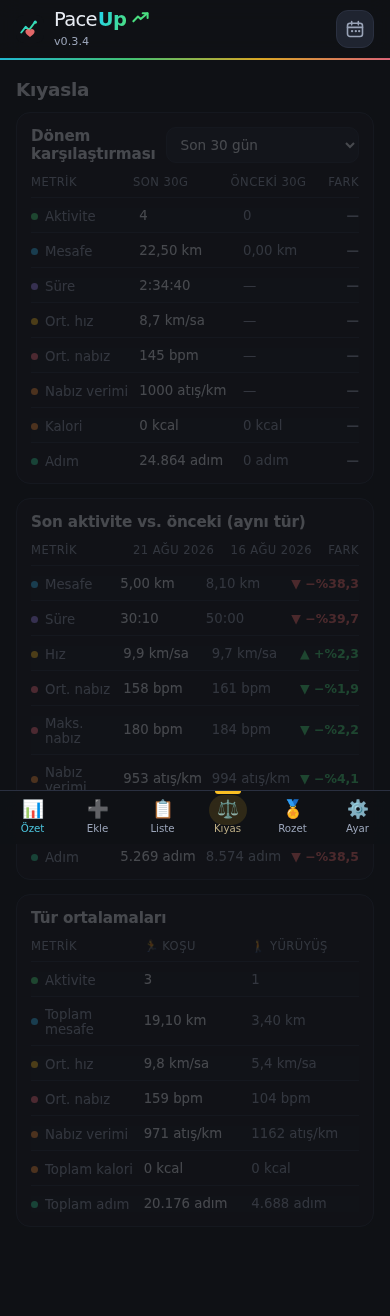
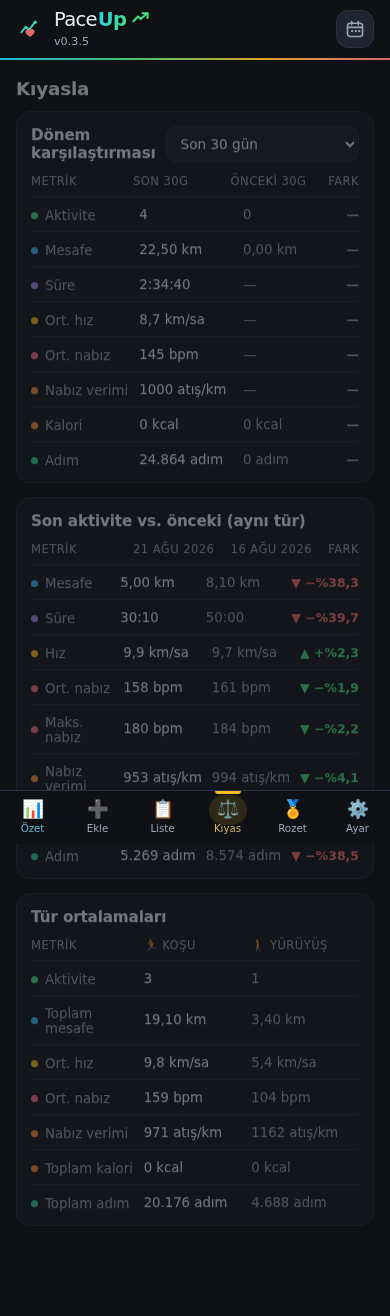
v0.3.5: rozet merdiveni ikiye bolundu
- 10 km'ye kadar (1, 3, 5, 10 km): tek antrenmanda kazanilir, kosular
  birbirine eklenmez
- 10 km ustu (15, 21,1, 30, 42,2, 50, 100, 250, 500, 1000 km): biriken
  toplam kosu mesafesiyle sirayla acilir; hedefi asan kosunun tarihi
  gosterilir. Yalnizca kosu kayitlari sayilir
- Sureklilik grubu aynen kaldi (haftalik antrenman sayisi, ust uste gun)
- Kartlarda olcut etiketi: "Tek antrenmanda" / "Biriken toplam"; kilitli
  rozetlerde kalan da olcute gore ("Tek kosuda 1,00 km daha" /
  "Toplamda 6,00 km daha")
- Birikimli rozetlerin notlari birikime gore yeniden yazildi

Dogrulama: 6 x 4 km kosu tek antrenman 5 km rozetini acmiyor, ama toplam
24 km 15 km ve 21,1 km rozetlerini aciyor; 20 km yuruyus toplama girmiyor.

Claude-Session: https://claude.ai/code/session_01DCsTEoeQYYAT5YEcPqUbg1

diff --git a/js/badges.js b/js/badges.js
@@ -1,7 +1,9 @@
-// Rozetler iki grupta toplanır:
-//   single  — TEK BİR ANTRENMANDA koşulan mesafe (1 km'den 100 km'ye).
+// Rozetler üç grupta toplanır:
+//   single  — TEK BİR ANTRENMANDA koşulan mesafe, 10 km'ye kadar.
 //             Mesafeler birikmez: 5 x 3 km koşmak 5 km rozetini açmaz;
 //             rozeti açan şey tek çıkışta o mesafeyi tamamlamaktır.
+//   total   — 10 km üstü: biriken toplam koşu mesafesi. Her koşu eklenir,
+//             hedefler sırayla açılır.
 //   streak  — süreklilik (haftalık antrenman sayısı, üst üste aktif gün)
 //
 // Rozet verisi saklanmaz; her zaman kayıtlardan hesaplanır. Bir kaydı silersen
@@ -10,8 +12,13 @@
 export const GROUPS = [
   {
     id: 'single',
-    name: 'Mesafe',
-    desc: 'Tek bir antrenmanda koştuğun mesafe — koşular birbirine eklenmez',
+    name: 'Tek antrenman',
+    desc: 'Bir çıkışta koştuğun mesafe — koşular birbirine eklenmez',
+  },
+  {
+    id: 'total',
+    name: 'Toplam koşu',
+    desc: 'Biriken toplam koşu mesafesi — her koşun eklenir, hedefler sırayla açılır',
   },
   { id: 'streak', name: 'Süreklilik', desc: 'Antrenmanı alışkanlığa çevirmek' },
 ];
@@ -41,35 +48,51 @@ export const BADGES = [
     name: '10 km', title: 'Onluk', level: 'Amatör', color: '#a3e635',
     note: 'Pistteki 10.000 metrenin yol karşılığı; olimpik mesafe.',
   },
+  // --- 10 km üstü: biriken toplam koşu mesafesi ---
   {
-    id: 'run-15k', group: 'single', target: 15, unit: 'km',
-    name: '15 km', title: 'Uzun mesafe', level: 'Deneyimli', color: '#fbbf24',
-    note: 'Yarı maratonun dörtte üçü — uzun koşuya geçiş noktası.',
+    id: 'total-15k', group: 'total', target: 15, unit: 'km', kind: 'total',
+    name: '15 km', title: 'Yol başlangıcı', level: 'Deneyimli', color: '#fbbf24',
+    note: 'Toplamda 15 km koşu — yarı maratonun dörtte üçü kadar yol.',
   },
   {
-    id: 'run-half', group: 'single', target: 21.0975, unit: 'km',
-    name: '21,1 km', title: 'Yarı maraton', level: 'Deneyimli', color: '#fb923c',
-    note: 'Maratonun tam yarısı: 21,0975 km. Resmî yarış mesafesi.',
+    id: 'total-half', group: 'total', target: 21.0975, unit: 'km', kind: 'total',
+    name: '21,1 km', title: 'Yarı maraton yolu', level: 'Deneyimli', color: '#fb923c',
+    note: 'Toplamda yarı maraton mesafesi kadar koştun (21,0975 km).',
   },
   {
-    id: 'run-30k', group: 'single', target: 30, unit: 'km',
-    name: '30 km', title: 'Duvar provası', level: 'İleri', color: '#f97316',
-    note: 'Maraton hazırlığının kilit uzun koşusu; "duvar" burada tanınır.',
+    id: 'total-30k', group: 'total', target: 30, unit: 'km', kind: 'total',
+    name: '30 km', title: 'Otuzluk', level: 'İleri', color: '#f97316',
+    note: 'Toplamda 30 km — maraton hazırlığındaki en uzun antrenman kadar yol.',
   },
   {
-    id: 'run-marathon', group: 'single', target: 42.195, unit: 'km',
-    name: '42,2 km', title: 'Maraton', level: 'Yarışçı', color: '#fb7185',
-    note: '1908 Londra Olimpiyatları\'nda koşulan, 1921\'de resmîleşen mesafe.',
+    id: 'total-marathon', group: 'total', target: 42.195, unit: 'km', kind: 'total',
+    name: '42,2 km', title: 'Maraton mesafesi', level: 'Yarışçı', color: '#fb7185',
+    note: 'Toplamda maraton mesafesi kadar koştun: 42,195 km.',
   },
   {
-    id: 'run-50k', group: 'single', target: 50, unit: 'km',
-    name: '50 km', title: 'Ultra', level: 'Yarışçı', color: '#e879f9',
-    note: 'Ultramaratonun giriş kapısı; dünya şampiyonası düzenlenen resmî mesafe.',
+    id: 'total-50k', group: 'total', target: 50, unit: 'km', kind: 'total',
+    name: '50 km', title: 'Elli', level: 'Yarışçı', color: '#e879f9',
+    note: 'Toplamda 50 km — ultramaratonun giriş mesafesi kadar yol.',
   },
   {
-    id: 'run-100k', group: 'single', target: 100, unit: 'km',
+    id: 'total-100k', group: 'total', target: 100, unit: 'km', kind: 'total',
     name: '100 km', title: 'Yüzlük', level: 'Profesyonel', color: '#a78bfa',
-    note: '100 km Dünya Şampiyonası mesafesi — profesyonel ultra dayanıklılık.',
+    note: 'Toplamda 100 km — maraton mesafesinin yaklaşık 2,4 katı.',
+  },
+  {
+    id: 'total-250k', group: 'total', target: 250, unit: 'km', kind: 'total',
+    name: '250 km', title: 'Yol alan', level: 'Profesyonel', color: '#818cf8',
+    note: 'Toplamda 250 km — yarı maratonun yaklaşık 12 katı.',
+  },
+  {
+    id: 'total-500k', group: 'total', target: 500, unit: 'km', kind: 'total',
+    name: '500 km', title: 'Uzun yol', level: 'Profesyonel', color: '#38bdf8',
+    note: 'Toplamda 500 km — haftada 10 km ile yaklaşık bir yıllık koşu.',
+  },
+  {
+    id: 'total-1000k', group: 'total', target: 1000, unit: 'km', kind: 'total',
+    name: '1000 km', title: 'Bin kilometre', level: 'Profesyonel', color: '#2dd4bf',
+    note: 'Toplamda 1000 km — maratonun 23 katı; ciddi koşucuların yıllık hacmi.',
   },
 
   // --- Süreklilik ---
@@ -138,6 +161,17 @@ function bestStreak(activities) {
   return best;
 }
 
+// Toplam koşu mesafesinin hedefi aştığı ilk koşu (eskiden yeniye biriktirerek)
+function totalReachedOn(runs, km) {
+  const chronological = [...runs].sort((a, b) => a.date.localeCompare(b.date));
+  let sum = 0;
+  for (const a of chronological) {
+    sum += a.distanceKm;
+    if (sum >= km) return a;
+  }
+  return null;
+}
+
 function firstQualifying(runs, km) {
   const qualified = runs.filter((a) => a.distanceKm >= km);
   if (!qualified.length) return null;
@@ -148,8 +182,10 @@ function firstQualifying(runs, km) {
 
 export function badgeState(activities) {
   const runs = activities.filter((a) => a.type === 'run' && a.distanceKm > 0);
-  // Tek antrenmandaki en uzun koşu — mesafe rozetlerinin tek ölçütü budur.
+  // Tek antrenmandaki en uzun koşu — 10 km'ye kadarki rozetlerin ölçütü.
   const bestRun = runs.reduce((m, a) => Math.max(m, a.distanceKm), 0);
+  // Biriken toplam koşu mesafesi — 10 km üstü rozetlerin ölçütü.
+  const totalRunKm = runs.reduce((s, a) => s + a.distanceKm, 0);
   const week = bestWeek(activities);
   const streak = bestStreak(activities);
 
@@ -161,6 +197,9 @@ export function badgeState(activities) {
       current = week.count;
     } else if (badge.kind === 'streak') {
       current = streak.length;
+    } else if (badge.kind === 'total') {
+      current = totalRunKm;
+      activity = current >= badge.target ? totalReachedOn(runs, badge.target) : null;
     } else {
       current = bestRun;
       activity = firstQualifying(runs, badge.target);

diff --git a/js/app.js b/js/app.js
@@ -11,7 +11,7 @@ import {
   fmtHr, fmtDate, todayIso, fmtPercent,
 } from './format.js';
 
-const APP_VERSION = '0.3.4';
+const APP_VERSION = '0.3.5';
 const $ = (sel) => document.querySelector(sel);
 const $$ = (sel) => [...document.querySelectorAll(sel)];
 
@@ -671,6 +671,7 @@ function badgeProgressText(state) {
   const { badge, remaining } = state;
   if (badge.kind === 'weekly') return `${Math.ceil(remaining)} antrenman daha`;
   if (badge.kind === 'streak') return `${Math.ceil(remaining)} gün daha`;
+  if (badge.kind === 'total') return `Toplamda ${fmtKm(remaining)} daha`;
   return `Tek koşuda ${fmtKm(remaining)} daha`;
 }
 
@@ -681,6 +682,9 @@ function badgeEarnedText(state) {
   }
   if (badge.kind === 'streak') {
     return `En uzun serin: ${current} gün<br>${fmtDate(context.start)} – ${fmtDate(context.end)}`;
+  }
+  if (badge.kind === 'total') {
+    return `${fmtDate(activity.date)} koşusunda aştın<br>toplam ${fmtKm(current)}`;
   }
   return `${fmtDate(activity.date)}<br>${fmtKm(activity.distanceKm)} · ${fmtDuration(activity.durationSec)}`;
 }
@@ -723,9 +727,8 @@ function renderBadges() {
             <div class="btitle">${badge.title}</div>
             <div class="blevel">${badge.level}</div>
             <div class="bnote">${badge.note}</div>
-            ${badge.group === 'single'
-              ? '<div class="bcrit">Tek antrenmanda</div>'
-              : ''}
+            ${badge.group === 'single' ? '<div class="bcrit">Tek antrenmanda</div>' : ''}
+            ${badge.group === 'total' ? '<div class="bcrit">Biriken toplam</div>' : ''}
             ${on
               ? `<div class="earned-tag">Kazanıldı</div>
                  <div class="bmeta">${badgeEarnedText(state)}</div>`

diff --git a/index.html b/index.html
@@ -28,7 +28,7 @@
                 stroke-width="2.4" stroke-linecap="round" stroke-linejoin="round"/>
         </svg>
       </h1>
-      <span class="ver" id="appVersion">v0.3.4</span>
+      <span class="ver" id="appVersion">v0.3.5</span>
     </div>
   </div>
   <div class="topbar-actions">
@@ -214,9 +214,10 @@
   <!-- ROZETLER -->
   <section id="view-badges" class="view" hidden aria-labelledby="t-badges">
     <h2 id="t-badges">Hedefler ve rozetler</h2>
-    <p class="muted" style="margin:-6px 0 14px">Mesafe rozetleri <b>tek bir antrenmanda</b>
-      o mesafeyi tamamlayınca açılır — koşular birbirine eklenmez. Beş kez 3 km koşmak
-      5 km rozetini vermez; tek çıkışta 5 km gerekir.</p>
+    <p class="muted" style="margin:-6px 0 14px">
+      <b>10 km'ye kadar</b> olan rozetler <b>tek bir antrenmanda</b> kazanılır — koşular
+      birbirine eklenmez; beş kez 3 km koşmak 5 km rozetini vermez.
+      <b>10 km üstü</b> rozetler ise <b>biriken toplam koşu mesafenle</b> sırayla açılır.</p>
     <div id="badgeSummary"></div>
     <div id="badgeGrid" class="badge-grid"></div>
   </section>

diff --git a/sw.js b/sw.js
@@ -1,5 +1,5 @@
 // Basit önbellek: uygulama kabuğu offline çalışsın.
-const VERSION = 'paceup-v0.3.4';
+const VERSION = 'paceup-v0.3.5';
 const ASSETS = [
   './',
   './index.html',

diff --git a/README.md b/README.md
@@ -4,7 +4,7 @@ Koşularını ve yürüyüşlerini kaydettiğin, nabız / mesafe / tempo değerl
 arasında kıyaslayan küçük bir PWA. Derleme adımı yok: saf HTML + CSS + ES modülleri.
 Veriler yalnızca cihazda (`localStorage`) tutulur, hiçbir yere gönderilmez.
 
-**Sürüm:** v0.3.4
+**Sürüm:** v0.3.5
 
 ## Neler var
 
@@ -35,8 +35,9 @@ Veriler yalnızca cihazda (`localStorage`) tutulur, hiçbir yere gönderilmez.
   göre renkli noktayla işaretlenir; bir güne dokununca o günün antrenmanları altta
   listelenir, puan rozetine dokununca puan ekranı açılır. Ay başlığındaki oklarla
   aylar arasında gezinilir, üstte o ayın toplamları görünür.
-- **Hedefler ve rozetler:** iki grupta 14 rozet — tek antrenmanda mesafe (1 km'den
-  100 km'ye) ve süreklilik. Her rozette mesafenin neye denk geldiğini
+- **Hedefler ve rozetler:** üç grupta 17 rozet — 10 km'ye kadar tek antrenmanda
+  mesafe, 10 km üstü biriken toplam koşu mesafesi ve süreklilik. Her rozette
+  mesafenin neye denk geldiğini
   anlatan kısa bir not ve kademe etiketi (Başlangıç → Profesyonel) bulunur. Kilitli
   rozetler ilerleme çubuğu ve kalanı gösterir; yeni rozet kazandıran bir kayıt
   girildiğinde puan ekranının üstünde kutlama şeridi çıkar.
@@ -105,11 +106,15 @@ Kart bunu kendi üzerinde de yazar.
 Rozetler saklanmaz; her açılışta kayıtlardan hesaplanır. Bir kaydı silersen ya da
 düzeltirsen rozet durumu da kendiliğinden düzelir.
 
-**Mesafe rozetlerinin tek ölçütü, tek bir antrenmanda koşulan mesafedir.** Koşular
-birikmez: beş kez 3 km koşmak (toplam 15 km) 5 km rozetini açmaz; rozeti açan şey
-tek çıkışta o mesafeyi tamamlamaktır. Rozeti, hedefi ilk kez geçen koşu kazandırır.
+Ölçüt mesafeye göre ikiye ayrılır:
 
-**Mesafe — tek bir antrenmanda koşu** (yürüyüşler sayılmaz)
+- **10 km'ye kadar → tek antrenman.** Koşular birbirine eklenmez; beş kez 3 km koşmak
+  (toplam 15 km) 5 km rozetini açmaz. Rozeti, hedefi tek çıkışta ilk kez geçen koşu
+  kazandırır.
+- **10 km üstü → biriken toplam koşu mesafesi.** Her koşun eklenir, hedefler sırayla
+  açılır. Yalnızca koşu türündeki kayıtlar sayılır; yürüyüşler bu gruba girmez.
+
+**Tek antrenman** (bir çıkışta koşulan mesafe)
 
 | Rozet | Hedef | Kademe | Not |
 |---|---|---|---|
@@ -117,12 +122,20 @@ tek çıkışta o mesafeyi tamamlamaktır. Rozeti, hedefi ilk kez geçen koşu k
 | Üç bin | 3 km | Başlangıç | Kulüp yarışlarının giriş mesafesi; pistte 7,5 tur |
 | Beşlik | 5 km | Amatör | Parkrun mesafesi |
 | Onluk | 10 km | Amatör | Pistteki 10.000 m'nin yol karşılığı |
-| Uzun mesafe | 15 km | Deneyimli | Yarı maratonun dörtte üçü |
-| Yarı maraton | 21,1 km | Deneyimli | Maratonun tam yarısı (21,0975 km) |
-| Duvar provası | 30 km | İleri | Maraton hazırlığının kilit uzun koşusu |
-| Maraton | 42,2 km | Yarışçı | 1908 Londra'da koşulan, 1921'de resmîleşen mesafe |
-| Ultra | 50 km | Yarışçı | Ultramaratonun giriş kapısı |
-| Yüzlük | 100 km | Profesyonel | 100 km Dünya Şampiyonası mesafesi |
+
+**Toplam koşu** (biriken mesafe, sırayla açılır)
+
+| Rozet | Hedef | Kademe | Not |
+|---|---|---|---|
+| Yol başlangıcı | 15 km | Deneyimli | Yarı maratonun dörtte üçü kadar yol |
+| Yarı maraton yolu | 21,1 km | Deneyimli | Toplamda yarı maraton mesafesi |
+| Otuzluk | 30 km | İleri | Maraton hazırlığındaki en uzun antrenman kadar |
+| Maraton mesafesi | 42,2 km | Yarışçı | Toplamda 42,195 km |
+| Elli | 50 km | Yarışçı | Ultramaratonun giriş mesafesi kadar |
+| Yüzlük | 100 km | Profesyonel | Maratonun ~2,4 katı |
+| Yol alan | 250 km | Profesyonel | Yarı maratonun ~12 katı |
+| Uzun yol | 500 km | Profesyonel | Haftada 10 km ile ~bir yıl |
+| Bin kilometre | 1000 km | Profesyonel | Maratonun 23 katı |
 
 **Süreklilik** (koşu + yürüyüş)
 
@@ -135,6 +148,7 @@ tek çıkışta o mesafeyi tamamlamaktır. Rozeti, hedefi ilk kez geçen koşu k
 
 Süreklilik rozetlerinde "en yoğun hafta" ve "en uzun seri" tüm geçmiş taranarak
 bulunur; kazanıldığında hangi hafta ya da hangi tarih aralığı olduğunu da yazar.
+Toplam koşu rozetlerinde ise hedefi aştığın koşunun tarihi gösterilir.
 
 ## Renk sistemi
 
